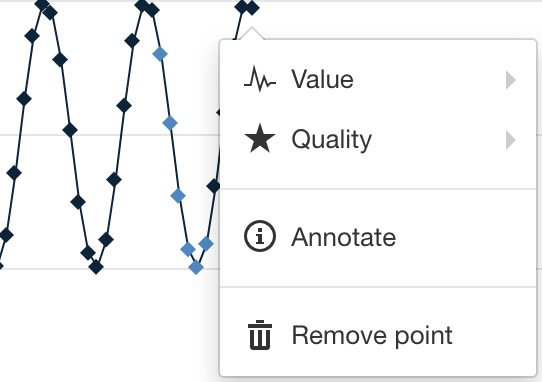
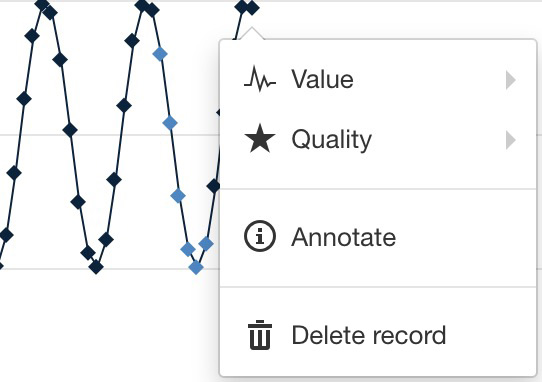
rename 'remove point' to 'delete record'

Changed region(s): [[0.5314, 0.8351, 0.8561, 0.9215]]

diff --git a/source/topics/historic_data/chart/index.rst b/source/topics/historic_data/chart/index.rst
@@ -371,9 +371,9 @@ To remove an annotation clear the text in the annotation entry dialog or right-c
 
 | 
 
-Remove record
+Delete record
 ``````````````
-|icon-remove| The remove operation deletes the selected records from the historic dataset.
+|icon-remove| The delete operation permanently removes the selected records from the historic dataset.
 
 | 
 

diff --git a/source/topics/historic_data/table/index.rst b/source/topics/historic_data/table/index.rst
@@ -301,9 +301,9 @@ To remove an annotation clear the text in the annotation entry dialog or right-c
 
 | 
 
-Remove record
+Delete record
 ``````````````
-|icon-remove| The remove operation deletes the selected records from the historic dataset.
+|icon-remove| The delete operation permanently removes the selected records from the historic dataset.
 
 | 
 
